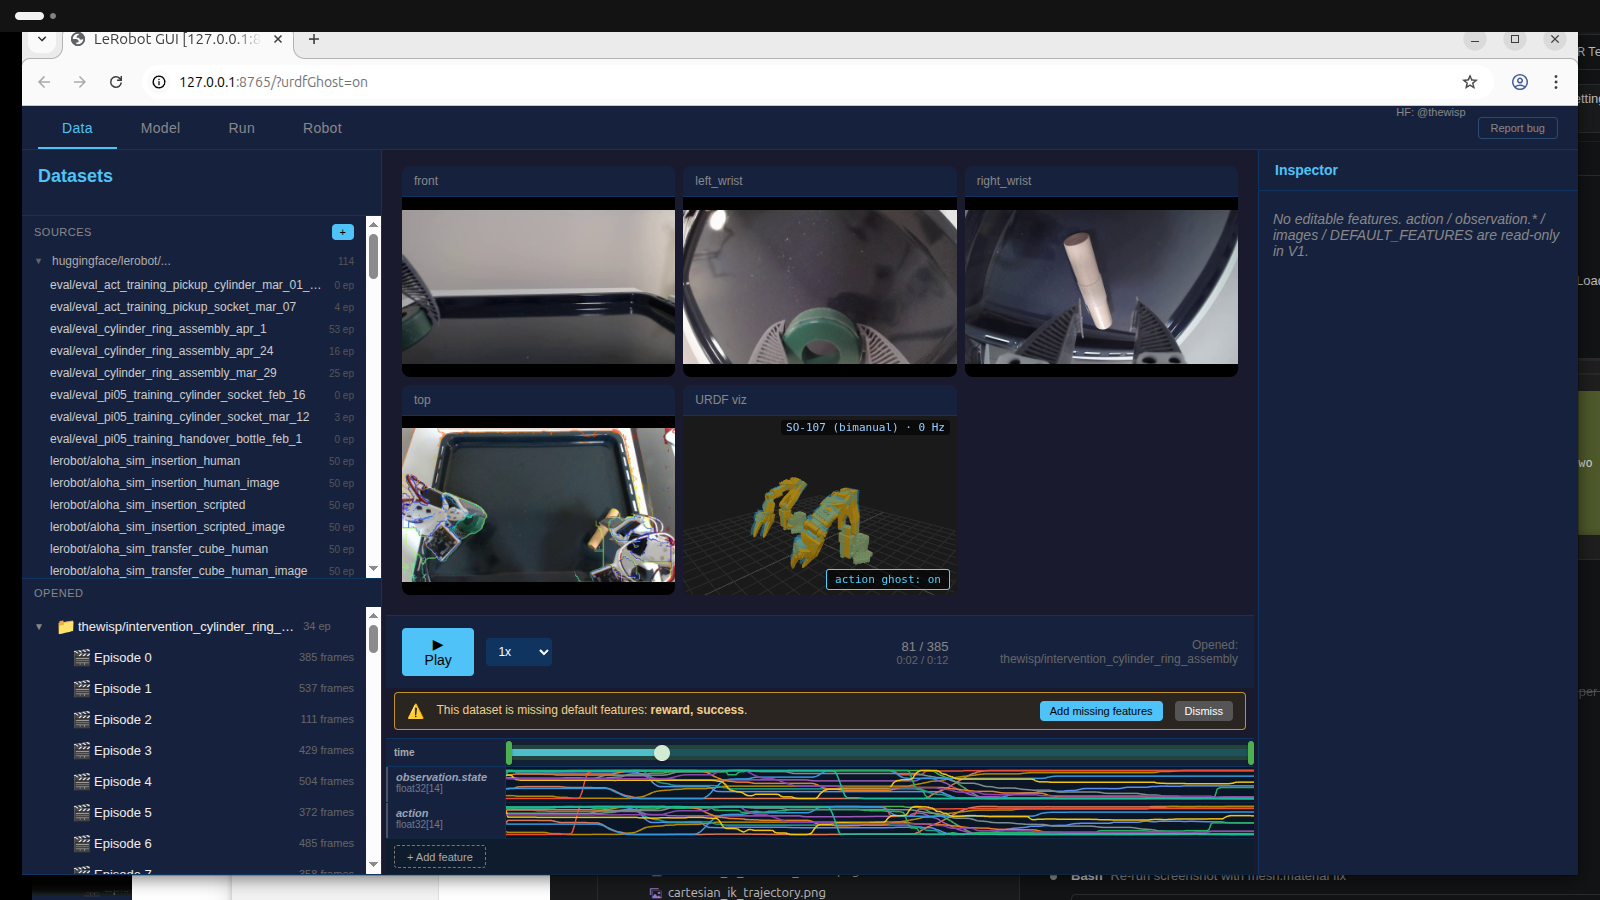
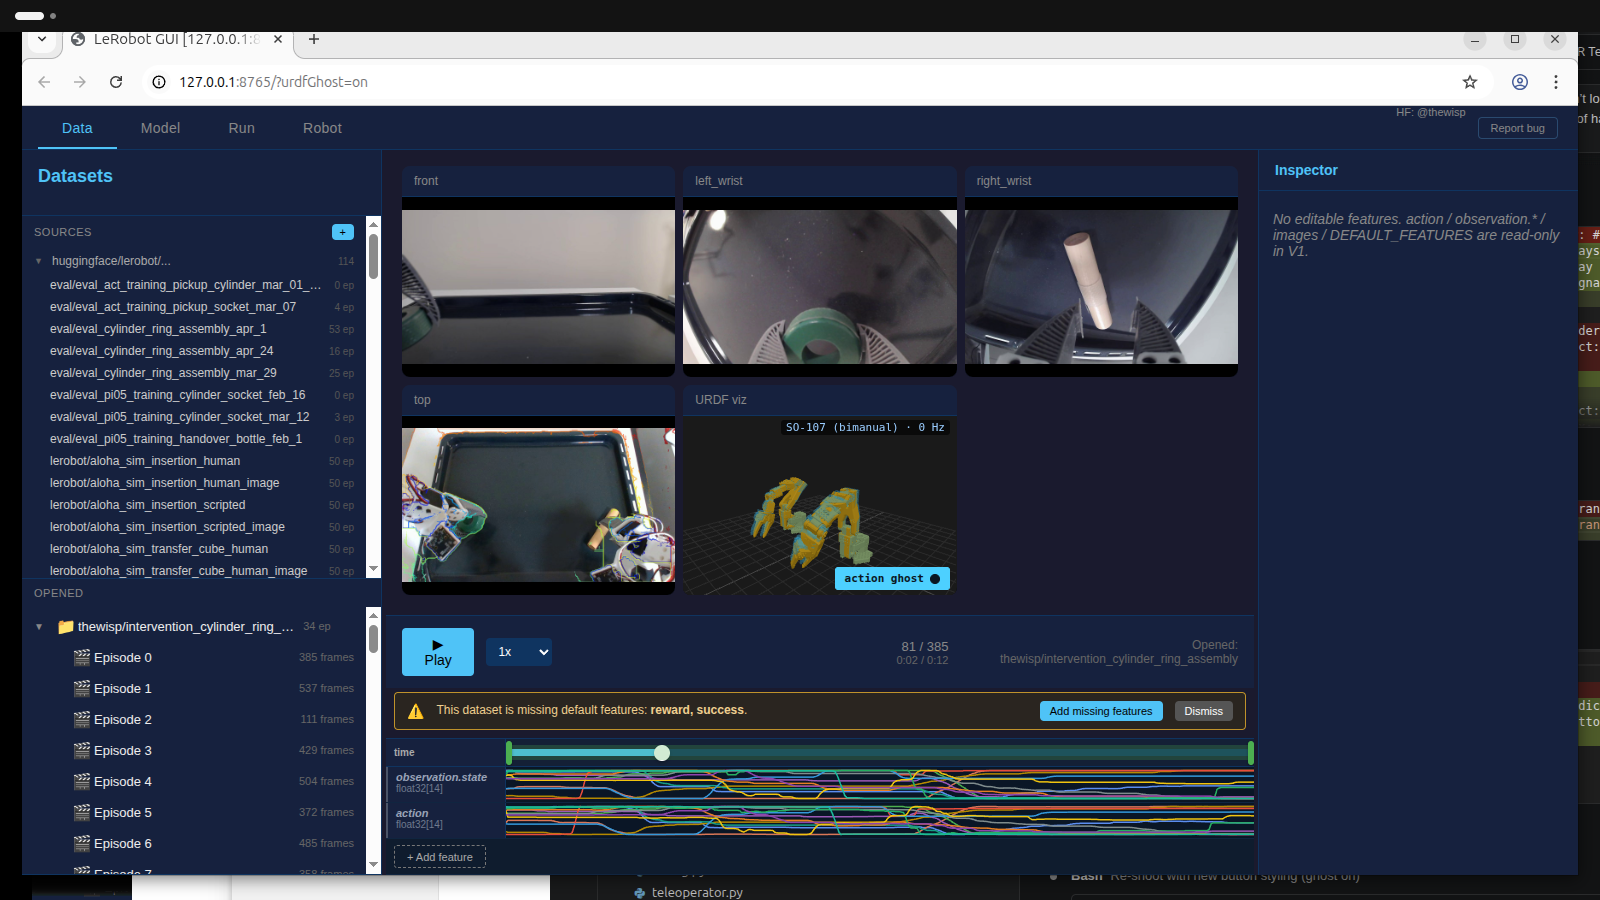
gui(urdf-viz): redesign ghost toggle to read as a button
The original styling matched the camera-key label overlays (translucent
rgba background, monospace 11px text) so it visually said "this is a
status badge" instead of "click me". Reviewer feedback confirmed.

Now: solid dark gray background by default, solid cyan when on, with a
round indicator dot (hollow → filled) doubling the state signal. Label
text stays static — the control reads as one button rather than as a
status badge whose text mutates. Hover lightens the background.

diff --git a/src/lerobot/gui/static/urdf_viz.html b/src/lerobot/gui/static/urdf_viz.html
@@ -12,16 +12,27 @@
             border-radius: 3px; pointer-events: none; }
   /* bottom-right ghost toggle. Pointer-events on so it's clickable; everything
      else in the page is the orbit-controls canvas. */
-  #ghost-toggle { position: absolute; bottom: 6px; right: 6px; color: #ddd;
+  /* Solid button (not a translucent label like the camera-key overlays) so
+     it reads as an actionable control. Filled cyan when on, dark gray
+     when off; the round indicator on the right doubles the state signal. */
+  #ghost-toggle { position: absolute; bottom: 6px; right: 6px;
                   font-size: 11px; font-family: monospace;
-                  background: rgba(0,0,0,0.6); padding: 3px 8px; border-radius: 3px;
-                  border: 1px solid #444; cursor: pointer; user-select: none; }
-  #ghost-toggle.on { color: #4dd0ff; border-color: #4dd0ff; }
+                  color: #ccc; background: #2a2a3a;
+                  padding: 4px 9px; border-radius: 3px;
+                  border: 1px solid #555; cursor: pointer; user-select: none;
+                  display: inline-flex; align-items: center; gap: 6px; }
+  #ghost-toggle:hover { background: #3a3a4a; border-color: #777; }
+  #ghost-toggle.on { color: #0a1622; background: #4dd0ff; border-color: #4dd0ff;
+                     font-weight: 600; }
+  #ghost-toggle.on:hover { background: #7be0ff; border-color: #7be0ff; }
+  #ghost-toggle .dot { width: 8px; height: 8px; border-radius: 50%;
+                       border: 1px solid currentColor; }
+  #ghost-toggle.on .dot { background: currentColor; }
 </style>
 </head>
 <body>
 <div id="status">starting…</div>
-<button id="ghost-toggle" title="Overlay the commanded action as a translucent ghost robot">action ghost: off</button>
+<button id="ghost-toggle" title="Overlay the commanded action as a translucent ghost robot"><span class="label">action ghost</span><span class="dot"></span></button>
 <script type="importmap">
 {
   "imports": {
@@ -237,7 +248,9 @@ window.addEventListener('message', (e) => {
 // ── ghost toggle ──────────────────────────────────────────────────────────
 const ghostBtn = document.getElementById('ghost-toggle');
 function _updateGhostBtn() {
-  ghostBtn.textContent = `action ghost: ${_ghostOn ? 'on' : 'off'}`;
+  // State signal is the .on class — CSS swaps colors + fills the indicator
+  // dot. The label text stays static so the control reads as one button
+  // (not as a status badge whose text changes).
   ghostBtn.classList.toggle('on', _ghostOn);
 }
 _updateGhostBtn();